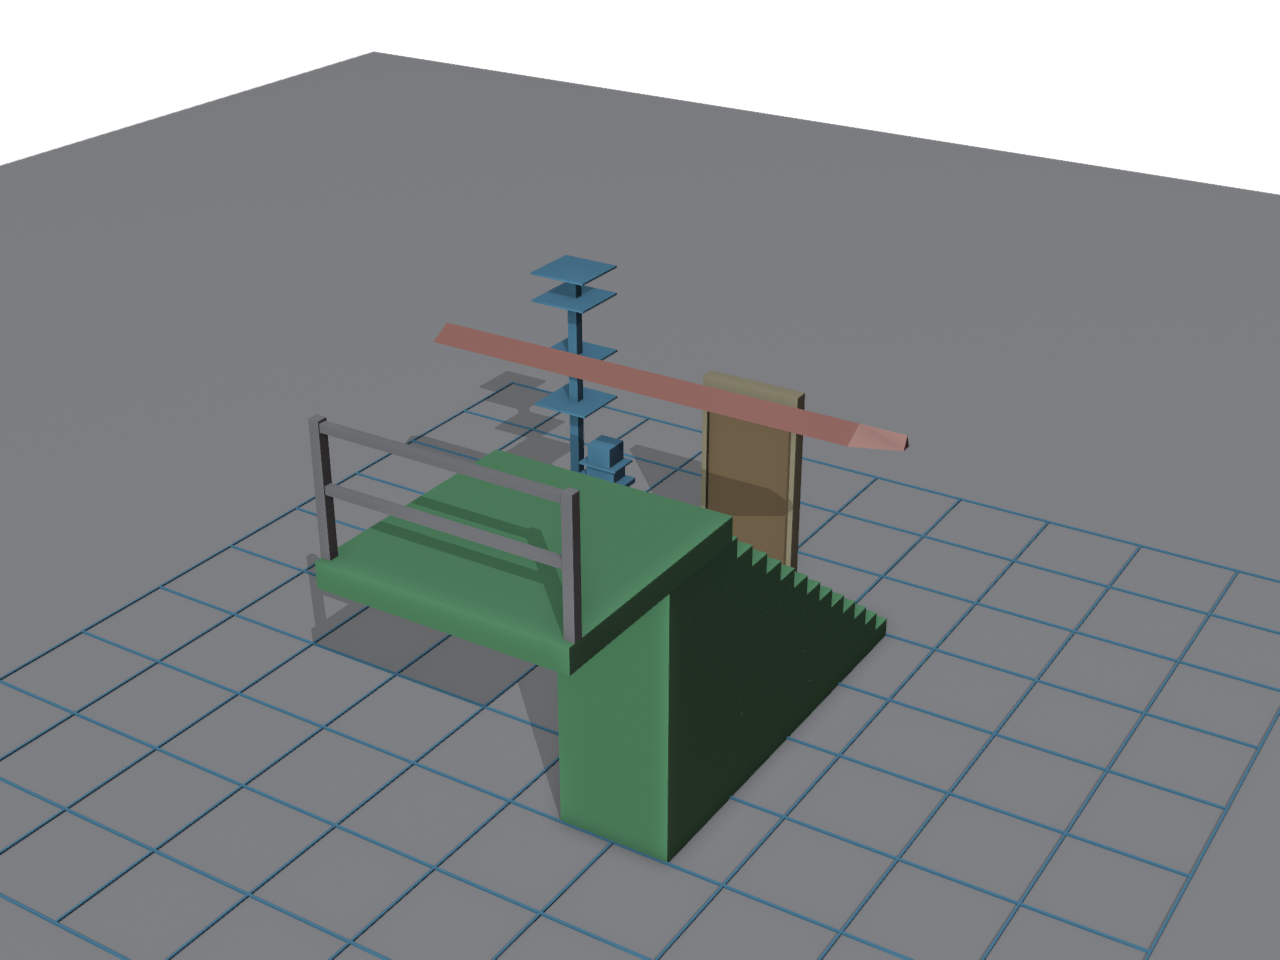
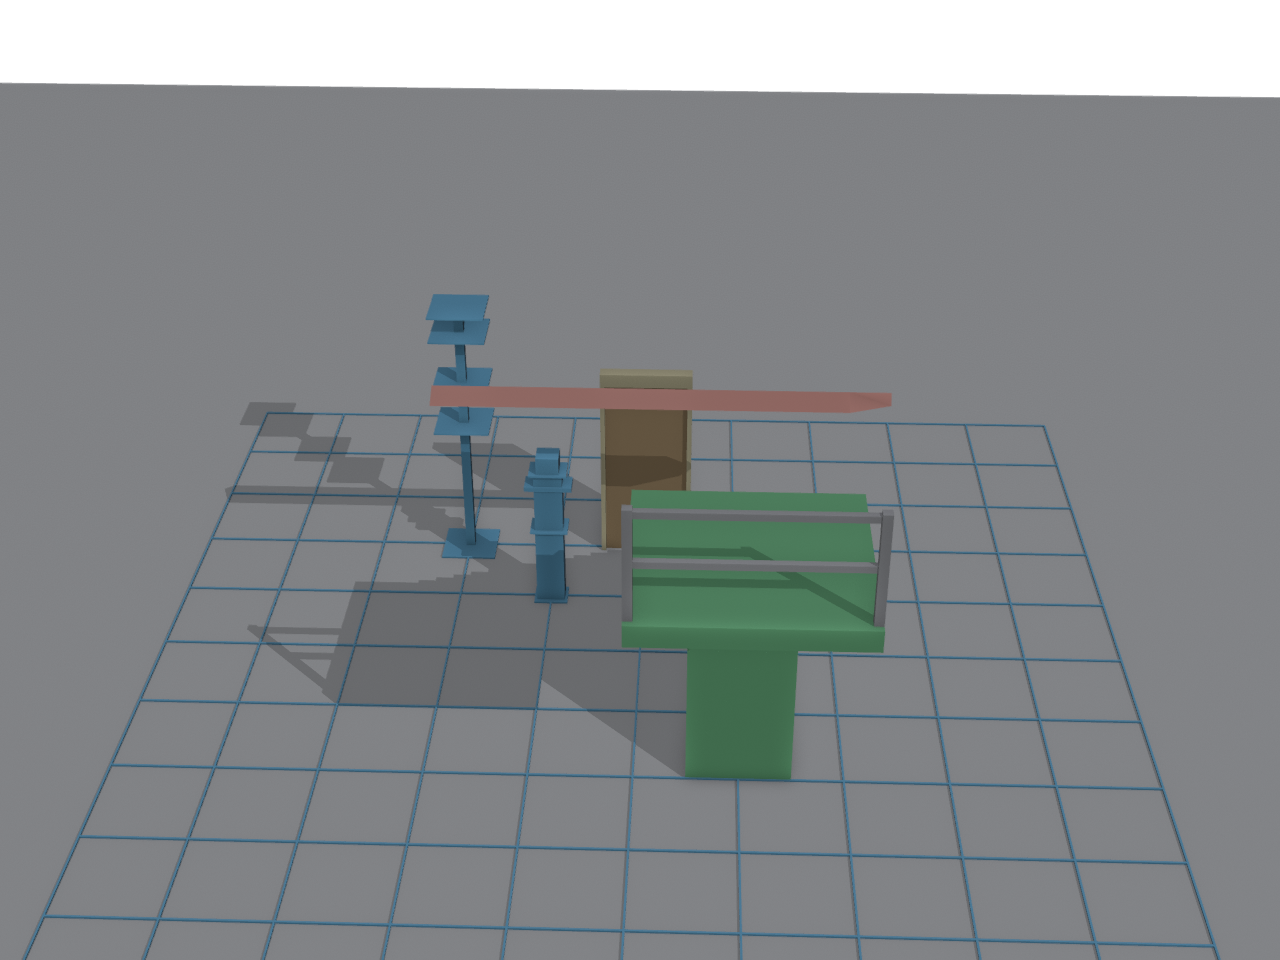
ASSET-CAL-1 bay proof: near-broadside level-ridge render
The ridge cap is identity-rotation and geometrically level in BOTH the fixture
(rotation=0,0,0) and the proof scene (rot_z=0) — verified. The prior 22:59 bay
angles rendered it from a 3/4 perspective that foreshortens a level horizontal
beam into an apparent downward slant across the stair. Re-render both bay angles
near-broadside (camera within ~2 deg of perpendicular to the ridge's long axis)
so a level ridge reads as a horizontal top edge; both angles now show the ridge
level. Fixture unchanged (engine still loads: ready=149 failed=0, 13 objects).

diff --git a/assets/creative/calibration/tools/render_proofs.py b/assets/creative/calibration/tools/render_proofs.py
@@ -276,8 +276,12 @@ def render_assembled_bay():
     """The 4 x 4 m bay use-case, rendered from the committed fixture layout:
     3 m storey gauge, socketed door, full-storey stair + landing resting on the
     stair top, rail on the landing, and the roof ridge cap + end."""
-    for tag, azimuth, elev, pad in (("assembled_bay", -58.0, 0.5, 1.05),
-                                    ("assembled_bay_side", 30.0, 0.3, 1.05)):
+    # The ridge runs along Blender X at Z=3 (identity rotation). Angle 1 is an
+    # elevated 3/4 view; angle 2 is BROADSIDE to the ridge (camera looks along
+    # Blender Y) at near-level elevation, where a level ridge must read as a
+    # horizontal top edge — the unambiguous level-ridge proof.
+    for tag, azimuth, elev, pad in (("assembled_bay", -88.0, 0.6, 1.2),
+                                    ("assembled_bay_side", 90.0, 0.18, 1.25)):
         reset_scene()
         allobjs = []
         for path, loc in BAY:
